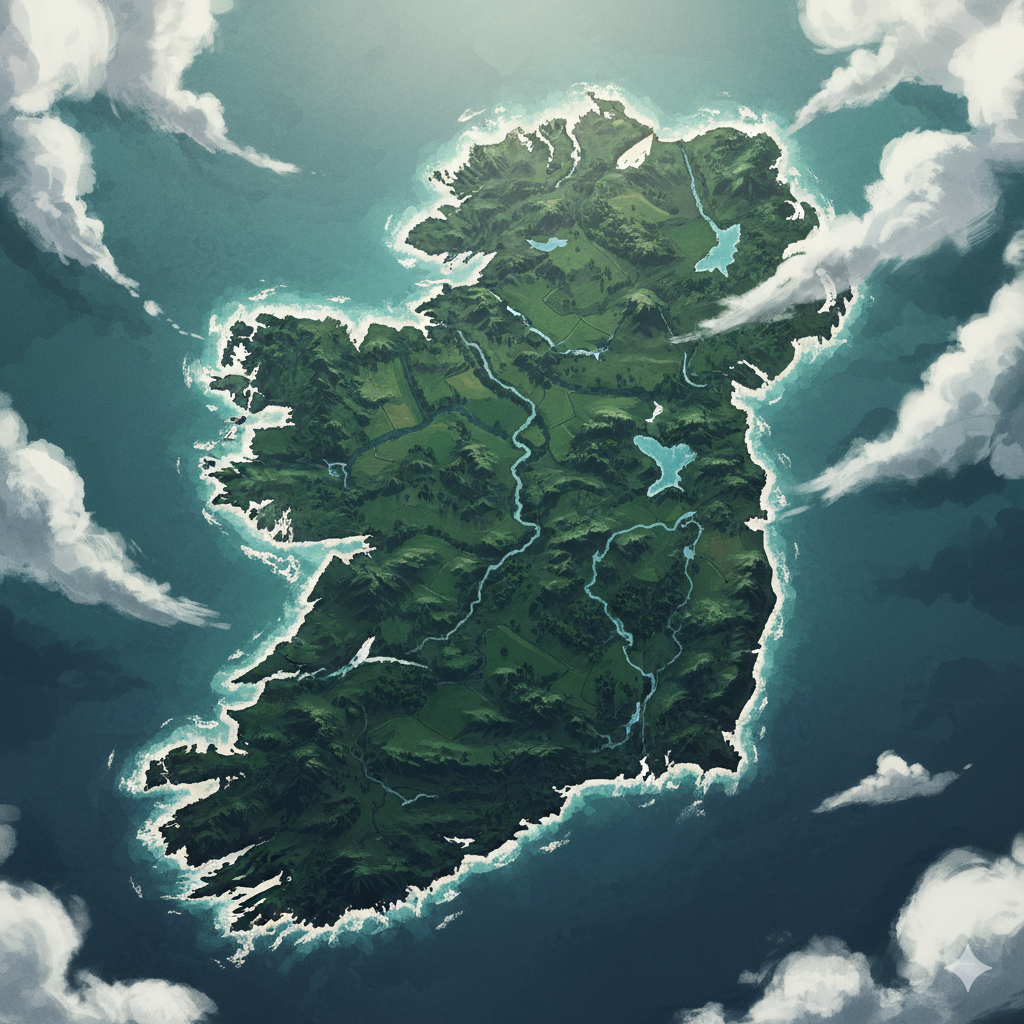
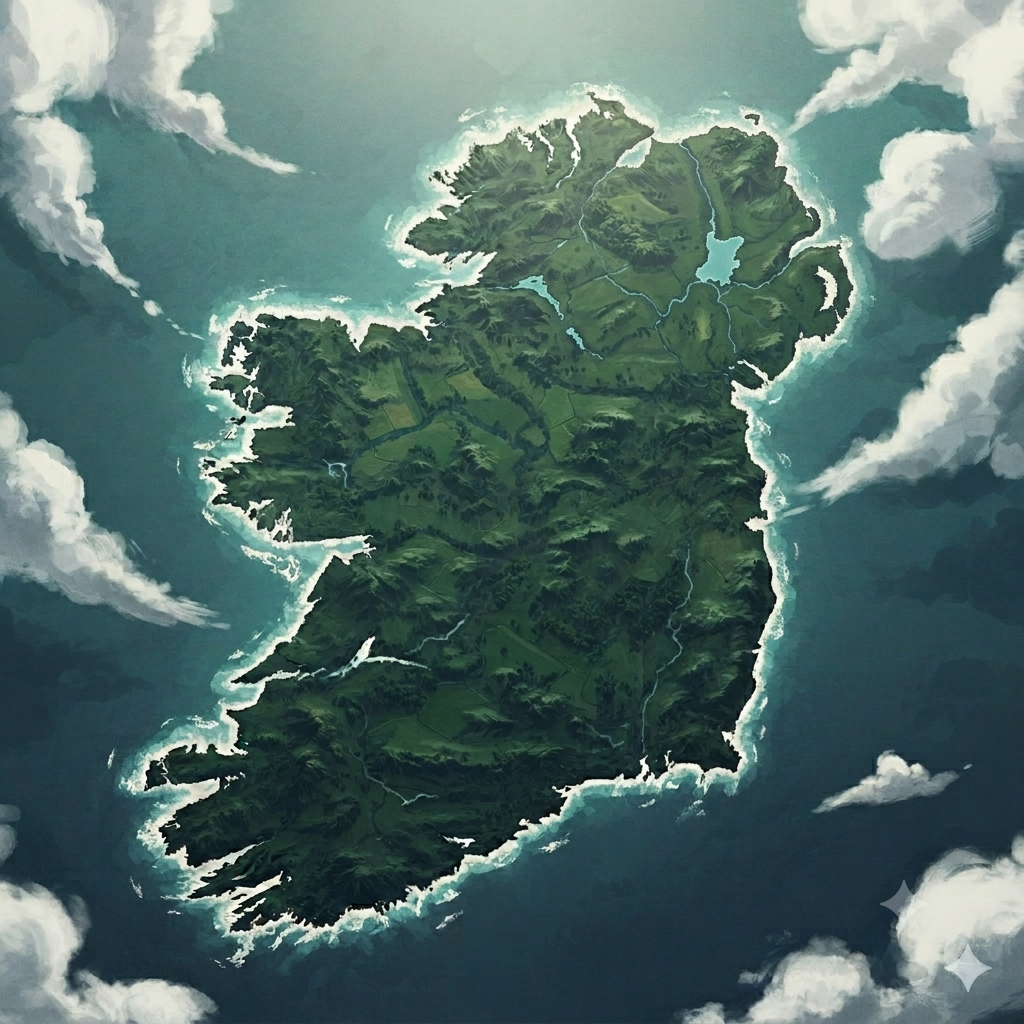
Replace map background image, bump cache to v199

diff --git a/service-worker.js b/service-worker.js
@@ -1,4 +1,4 @@
-const CACHE = 'provenance-v198';
+const CACHE = 'provenance-v199';
 const ASSETS = [
   '/',
   '/index.html',
